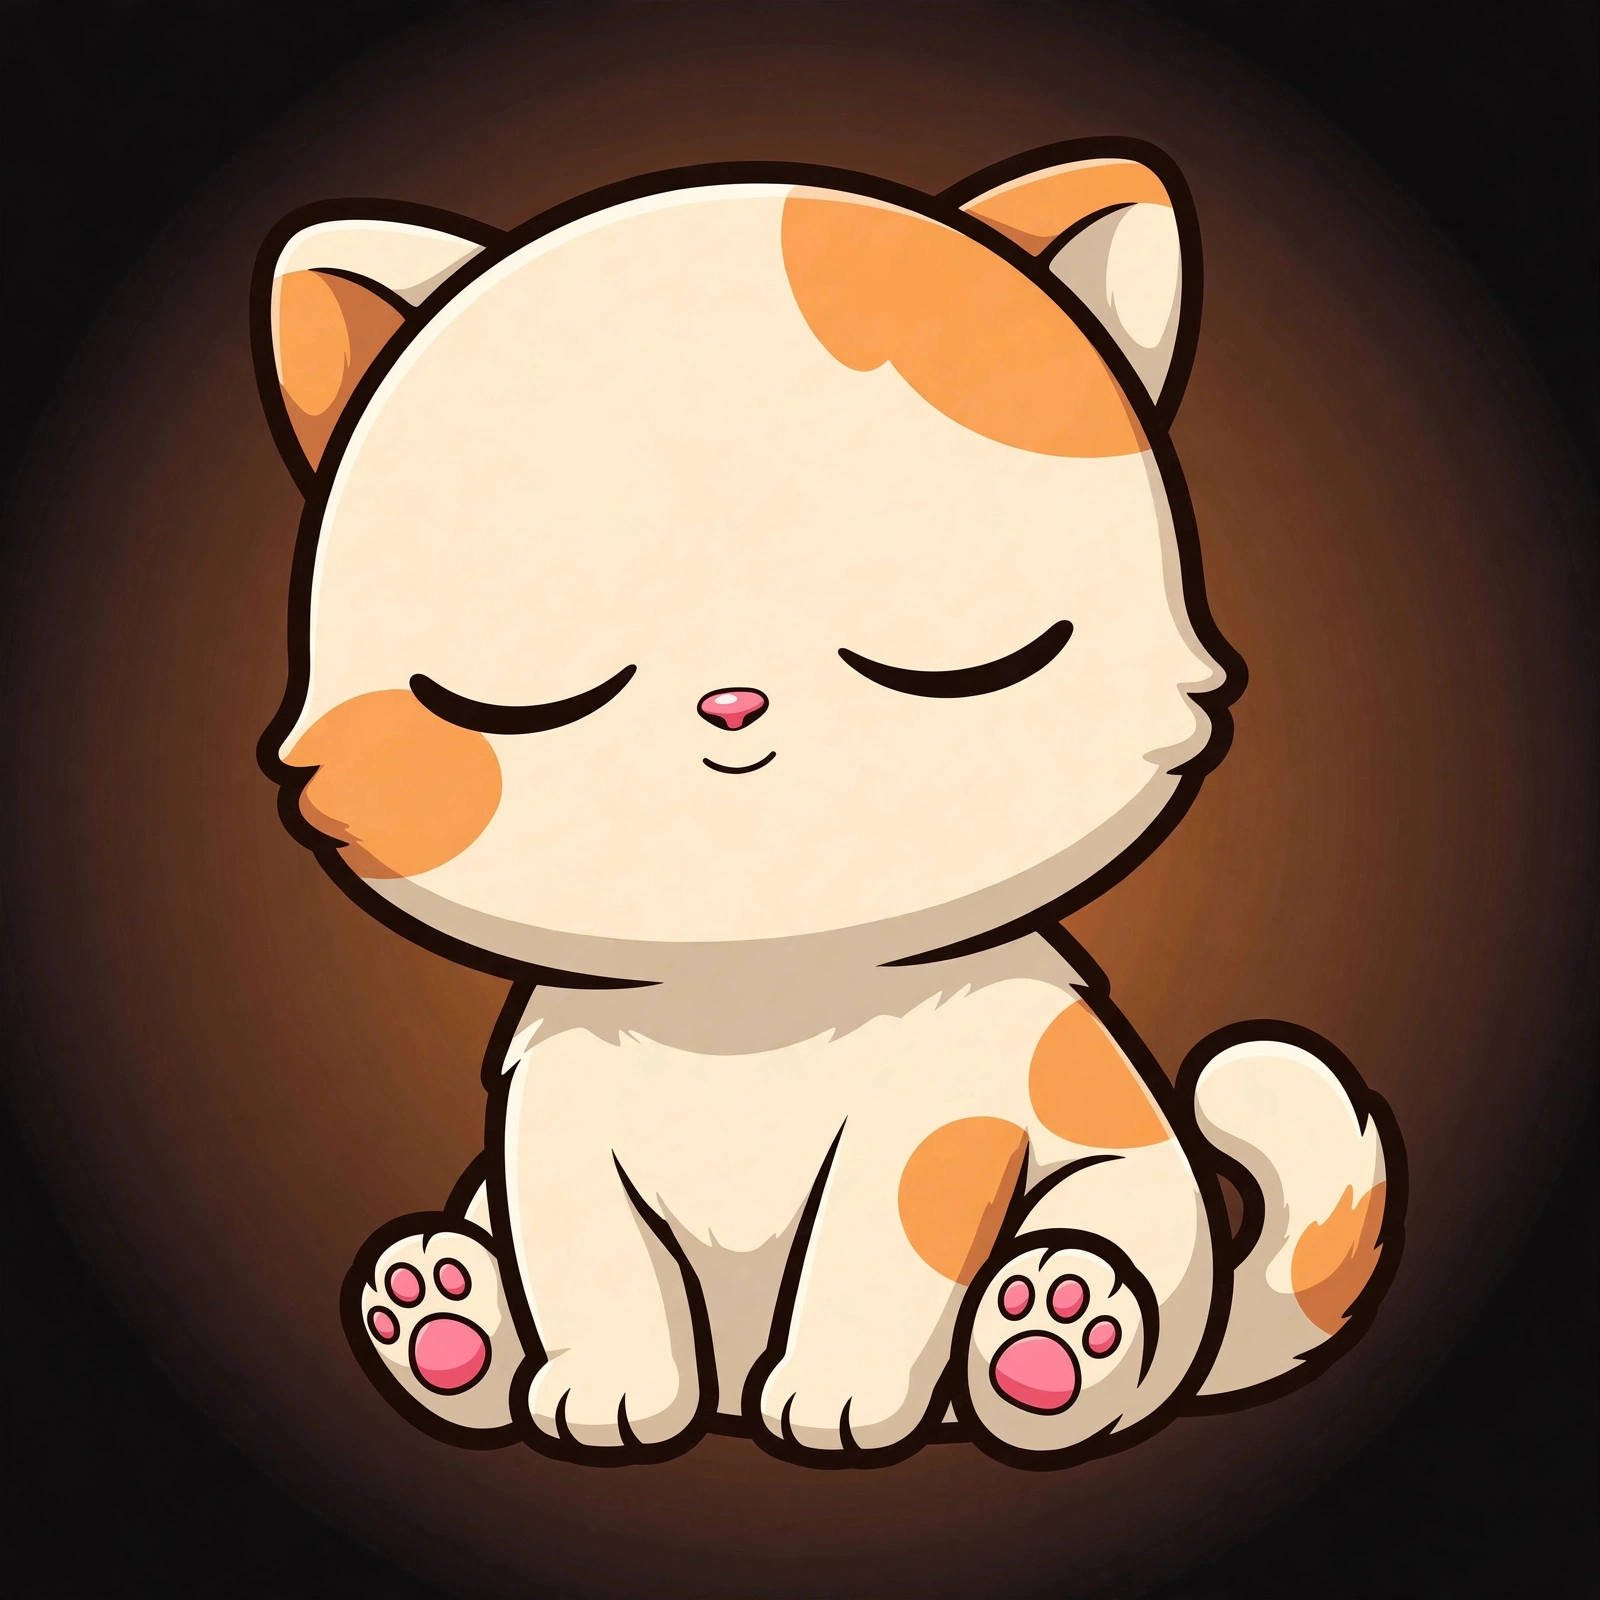
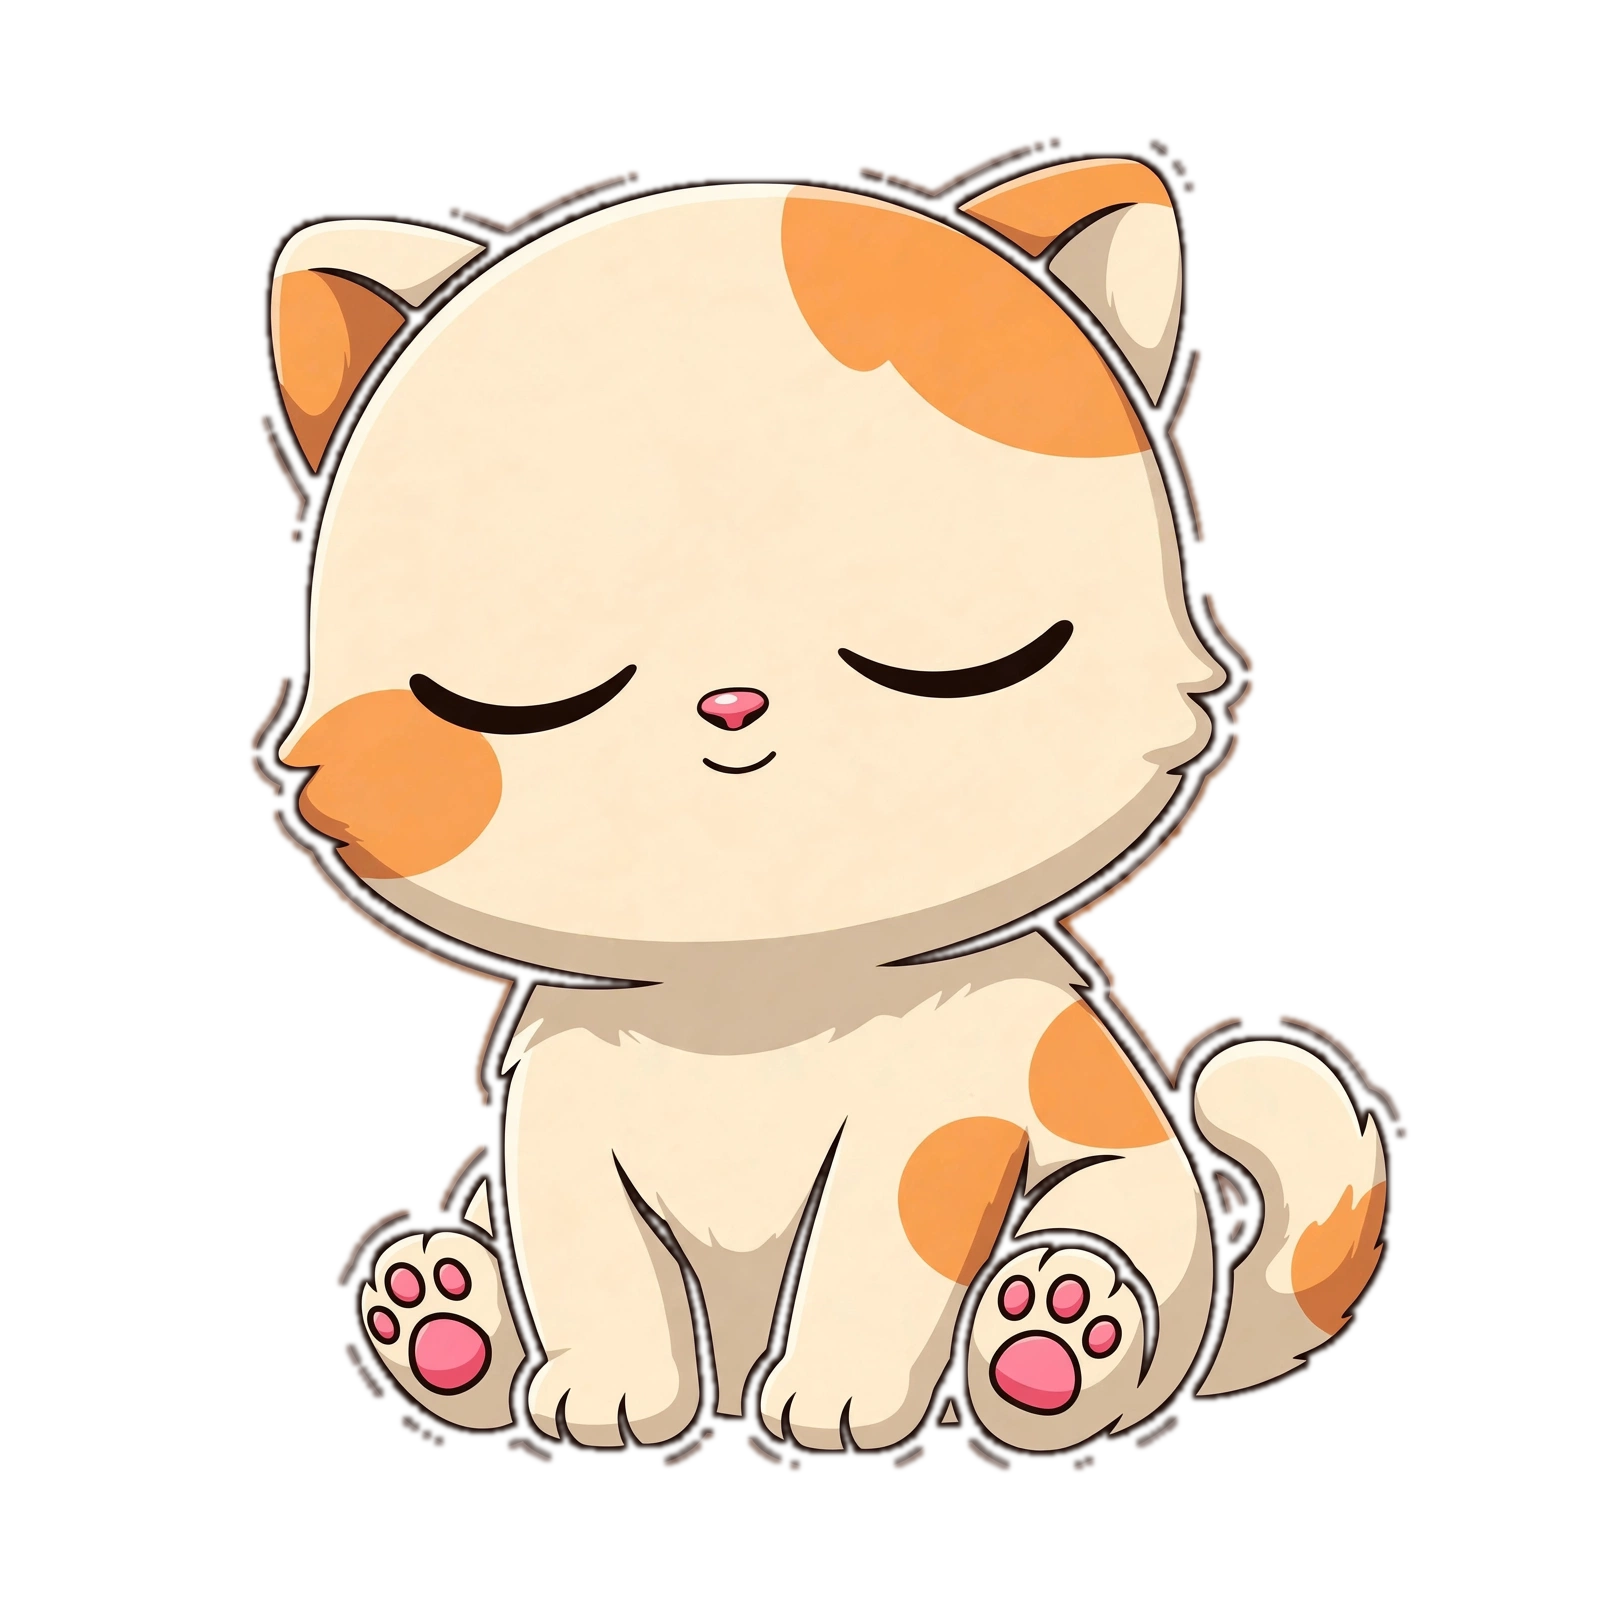
Initial commit

diff --git a/index.html b/index.html
@@ -27,11 +27,22 @@
     cursor: pointer;
     touch-action: manipulation;
   }
+  /* Warm halo behind the cat — pure radial CSS, no square edges. */
+  #glow {
+    position: absolute; inset: -22%;
+    background: radial-gradient(closest-side,
+      rgba(255, 176, 110, 0.20) 0%,
+      rgba(255, 150, 90, 0.08) 55%,
+      rgba(255, 150, 90, 0) 100%);
+    pointer-events: none;
+  }
   #cat {
+    position: relative;
     width: 100%; height: 100%;
     display: block;
     pointer-events: none;
-    transition: transform 120ms ease-out;
+    filter: drop-shadow(0 22px 26px rgba(0, 0, 0, 0.45));
+    transition: transform 120ms ease-out, filter 120ms ease-out;
   }
   #cat.squash { transform: scale(1.07, 0.9); }
   #bubble {
@@ -75,11 +86,12 @@
 <body>
   <div id="stage">
     <div id="catWrap">
+      <div id="glow"></div>
       <img id="cat" src="frames/idle.png" alt="cute kitten" draggable="false">
       <div id="bubble">mew!</div>
     </div>
   </div>
-  <div id="badge">v2026.09.30-19.55</div>
+  <div id="badge">v2026.09.30-19.54</div>
 
 <script>
 (function () {
